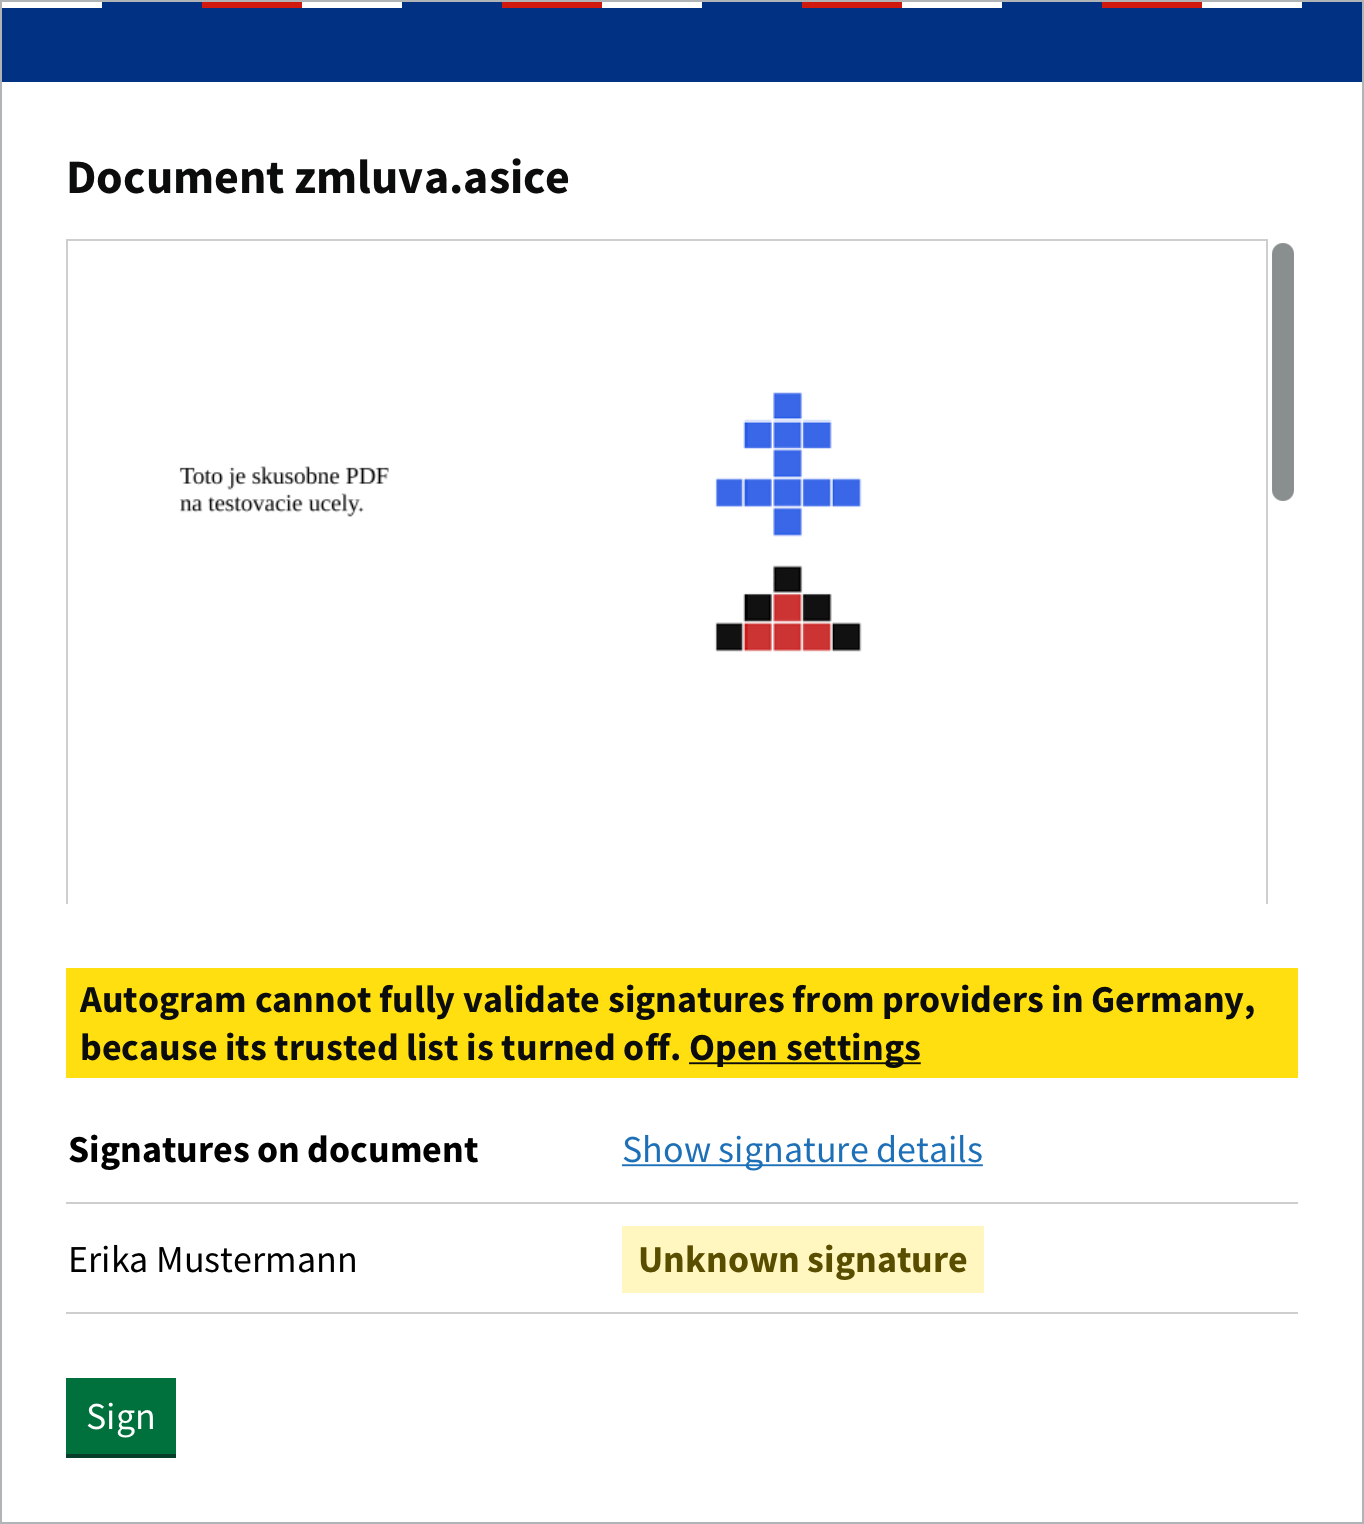
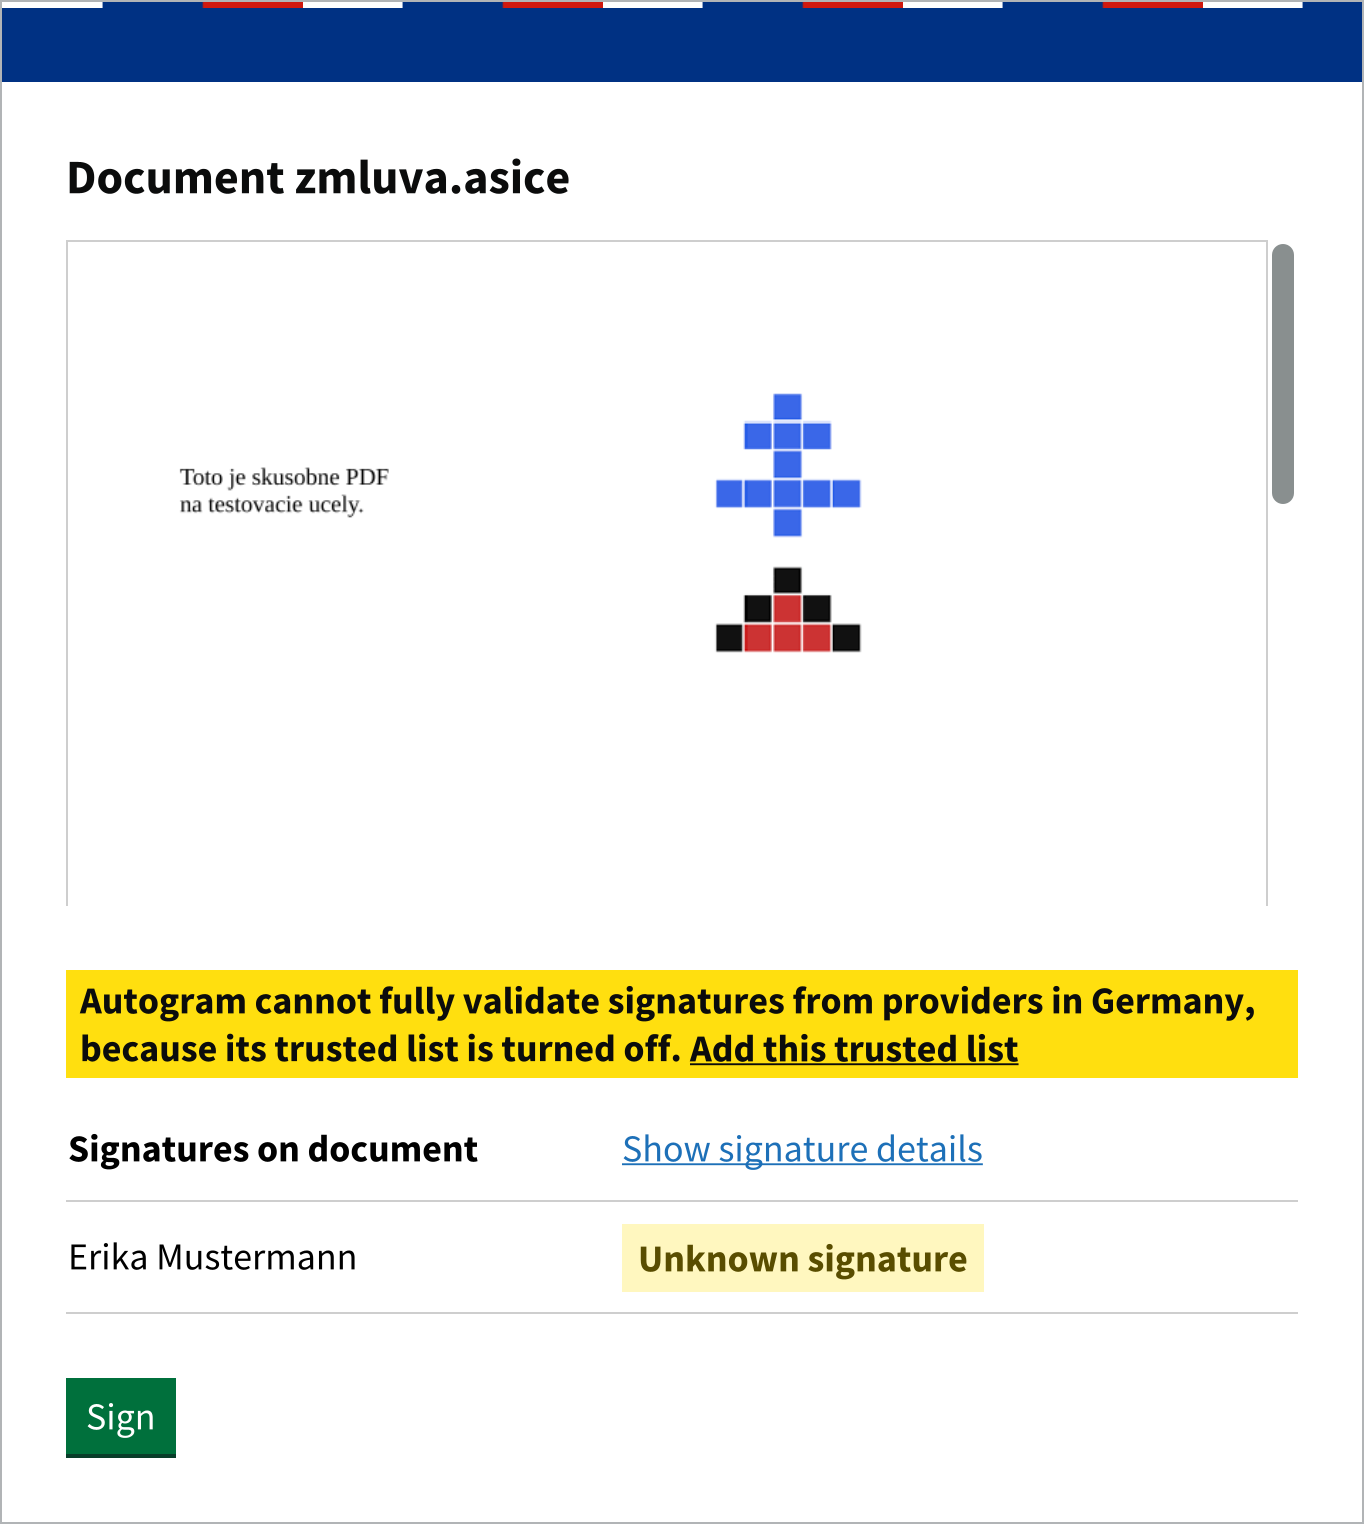
document adding the trusted lists from the warning

diff --git a/docs/docs/sk/troubleshooting.md b/docs/docs/sk/troubleshooting.md
@@ -78,7 +78,7 @@ Autogram predvolene podpisuje iba XML formuláre slovenskej verejnej správy. In
 
 ### Podpisy sa nedajú overiť
 
-Ak Autogram hlási chybu pri sťahovaní dôveryhodných zoznamov, nemá prístup na internet alebo je server s dôveryhodnými zoznamami nedostupný. Skontrolujte pripojenie a dokument otvorte znova. Ak hlási, že sa nepodarilo stiahnuť iba niektoré zoznamy, je nedostupný server niektorej krajiny alebo je pripojenie na internet veľmi pomalé. Skúste to neskôr. Ak Autogram hlási, že dôveryhodný zoznam krajiny nemáte zapnutý, kliknite na **Otvoriť nastavenia** a krajinu zapnite. Viac je na stránke [Overenie podpisov](verification.md#doveryhodne-zoznamy).
+Ak Autogram hlási chybu pri sťahovaní dôveryhodných zoznamov, nemá prístup na internet alebo je server s dôveryhodnými zoznamami nedostupný. Skontrolujte pripojenie a dokument otvorte znova. Ak hlási, že sa nepodarilo stiahnuť iba niektoré zoznamy, je nedostupný server niektorej krajiny alebo je pripojenie na internet veľmi pomalé. Skúste to neskôr. Ak Autogram hlási, že dôveryhodný zoznam krajiny nemáte zapnutý, kliknite na **Pridať tento dôveryhodný zoznam**. Viac je na stránke [Overenie podpisov](verification.md#doveryhodne-zoznamy).
 
 ## Inštalácia a aktualizácie
 

diff --git a/docs/docs/en/settings.md b/docs/docs/en/settings.md
@@ -29,7 +29,7 @@ For a timestamp to be recognised during validation, its provider must be qualifi
 
 ![Settings – Signature Validation](/assets/images/screenshots/en/settings-validation.png)
 
-The list of EU countries whose trusted lists Autogram uses to validate signatures. By default, Slovakia, Czechia, Austria, Poland, Hungary, Belgium, the Netherlands and Spain are on. If you receive documents signed with a certificate from another country, turn it on. Autogram tells you when it cannot validate a signature because of that. More countries slow down validation.
+The list of EU countries whose trusted lists Autogram uses to validate signatures. By default, Slovakia, Czechia, Austria, Poland, Hungary, Belgium, the Netherlands and Spain are on. If you receive documents signed with a certificate from another country, turn it on. When Autogram cannot validate a signature because of that, it tells you and turns the country on with one click. More countries slow down validation.
 
 Autogram also uses these lists to find out whether the certificate you sign with is qualified. If your certificate is from another country, turn that country on too, otherwise Autogram marks the certificate as non-qualified in the [certificate selection](card-and-pin.md#choosing-the-certificate).
 

diff --git a/docs/docs/sk/settings.md b/docs/docs/sk/settings.md
@@ -29,7 +29,7 @@ Aby bola časová pečiatka pri overovaní uznaná, jej poskytovateľ musí byť
 
 ![Nastavenia – Overovanie podpisov](/assets/images/screenshots/sk/settings-validation.png)
 
-Zoznam krajín EÚ, podľa ktorých dôveryhodných zoznamov Autogram overuje podpisy. Predvolene sú zapnuté Slovensko, Česko, Rakúsko, Poľsko, Maďarsko, Belgicko, Holandsko a Španielsko. Ak dostávate dokumenty podpísané certifikátom z inej krajiny, zapnite ju. Autogram vás na to upozorní pri podpise, ktorý preto nevie overiť. Viac krajín overovanie spomalí.
+Zoznam krajín EÚ, podľa ktorých dôveryhodných zoznamov Autogram overuje podpisy. Predvolene sú zapnuté Slovensko, Česko, Rakúsko, Poľsko, Maďarsko, Belgicko, Holandsko a Španielsko. Ak dostávate dokumenty podpísané certifikátom z inej krajiny, zapnite ju. Autogram vás na to upozorní pri podpise, ktorý preto nevie overiť, a krajinu zapne jedným kliknutím. Viac krajín overovanie spomalí.
 
 Podľa týchto zoznamov Autogram zisťuje aj to, či je kvalifikovaný certifikát, ktorým podpisujete. Ak máte certifikát z inej krajiny, zapnite aj ju, inak ho Autogram vo [výbere certifikátu](card-and-pin.md#vyber-certifikatu) označí ako nekvalifikovaný.
 

diff --git a/docs/docs/sk/verification.md b/docs/docs/sk/verification.md
@@ -52,7 +52,7 @@ Tlačidlom **Zobraziť technické detaily** otvoríte úplnú správu o overení
 
 Autogram overuje podpisy podľa dôveryhodných zoznamov Európskej únie, ktoré sťahuje z internetu. Predvolene overuje podpisy z certifikátov poskytovateľov zo Slovenska, Česka, Rakúska, Poľska, Maďarska, Belgicka, Holandska a Španielska. Ďalšie krajiny zapnete v [Nastaveniach](settings.md#overovanie-podpisov). Každá ďalšia krajina overovanie spomalí.
 
-Ak podpis vydal poskytovateľ z krajiny, ktorej dôveryhodný zoznam nemáte zapnutý, Autogram ho nevie úplne overiť a nad podpismi na to upozorní aj s odkazom **Otvoriť nastavenia**. Keď krajinu zapnete a nastavenia uložíte, otvorené dokumenty sa overia znova.
+Ak podpis vydal poskytovateľ z krajiny, ktorej dôveryhodný zoznam nemáte zapnutý, Autogram ho nevie úplne overiť a nad podpismi na to upozorní. Kliknite na **Pridať tento dôveryhodný zoznam** (pri viacerých krajinách **Pridať tieto dôveryhodné zoznamy**): Autogram krajinu zapne v nastaveniach a otvorené dokumenty overí znova.
 
 ![Upozornenie, že dôveryhodný zoznam krajiny nemáte zapnutý](/assets/images/screenshots/sk/signed-document-country-off.png)
 

diff --git a/docs/docs/sk/warnings.md b/docs/docs/sk/warnings.md
@@ -25,9 +25,9 @@ Ak dokument už obsahuje podpis, ktorý je neplatný alebo ho nie je možné ove
 - **Zrušiť podpisovanie:** dokument nepodpíšete,
 - **Podpísať:** dokument napriek tomu podpíšete.
 
-Ak podpis vydal poskytovateľ z krajiny, ktorej dôveryhodný zoznam nemáte zapnutý, upozornenie to uvedie aj s odkazom **Otvoriť nastavenia**. Keď krajinu zapnete a nastavenia uložíte, Autogram podpisy overí znova. Potom kliknite na **Podpísať** ešte raz.
+Ak podpis vydal poskytovateľ z krajiny, ktorej dôveryhodný zoznam nemáte zapnutý, upozornenie to uvedie. Kliknite na **Pridať tento dôveryhodný zoznam**: Autogram krajinu zapne v nastaveniach a podpisy overí znova. Potom kliknite na **Podpísať** ešte raz.
 
-![Upozornenie s odkazom do nastavení](/assets/images/screenshots/sk/warning-invalid-signatures-country-off.png)
+![Upozornenie s odkazom, ktorý pridá dôveryhodný zoznam](/assets/images/screenshots/sk/warning-invalid-signatures-country-off.png)
 
 Čo znamenajú jednotlivé výsledky overenia, je na stránke [Overenie podpisov](verification.md#vysledky). Upozornenie môžete vypnúť v [Nastaveniach](settings.md#bezpecnost) voľbou **Kontrola platnosti podpisov**.
 

diff --git a/docs/docs/en/troubleshooting.md b/docs/docs/en/troubleshooting.md
@@ -78,7 +78,7 @@ By default, Autogram signs only Slovak government XML forms. You can sign other 
 
 ### Signatures cannot be validated
 
-If Autogram reports an error while downloading trusted lists, it has no internet access or the server with the trusted lists is unavailable. Check your connection and open the document again. If it reports that only some lists could not be downloaded, the server of a country is unavailable or the internet connection is very slow. Try again later. If Autogram says that the trusted list of a country is turned off, click **Open settings** and turn the country on. See [Verifying signatures](verification.md#trusted-lists).
+If Autogram reports an error while downloading trusted lists, it has no internet access or the server with the trusted lists is unavailable. Check your connection and open the document again. If it reports that only some lists could not be downloaded, the server of a country is unavailable or the internet connection is very slow. Try again later. If Autogram says that the trusted list of a country is turned off, click **Add this trusted list**. See [Verifying signatures](verification.md#trusted-lists).
 
 ## Installation and updates
 

diff --git a/docs/docs/en/verification.md b/docs/docs/en/verification.md
@@ -51,7 +51,7 @@ Click **Show signature details**. For each signature you see:
 
 Autogram validates signatures against the European Union trusted lists, which it downloads from the internet. By default it validates signatures with certificates from providers in Slovakia, Czechia, Austria, Poland, Hungary, Belgium, the Netherlands and Spain. You can turn on more countries in [Settings](settings.md#signature-validation). Each additional country slows down validation.
 
-If a signature was issued by a provider from a country whose trusted list is turned off, Autogram cannot fully validate it and says so above the signatures, with an **Open settings** link. When you turn the country on and save the settings, open documents are validated again.
+If a signature was issued by a provider from a country whose trusted list is turned off, Autogram cannot fully validate it and says so above the signatures. Click **Add this trusted list** (**Add these trusted lists** for more countries): Autogram turns the country on in the settings and validates open documents again.
 
 ![Warning that the trusted list of a country is turned off](/assets/images/screenshots/en/signed-document-country-off.png)
 

diff --git a/docs/docs/en/warnings.md b/docs/docs/en/warnings.md
@@ -25,9 +25,9 @@ Authorities may not accept such a document. **Show signature details** shows the
 - **Cancel signing:** you do not sign the document,
 - **Sign:** you sign the document anyway.
 
-If a signature was issued by a provider from a country whose trusted list is turned off, the warning says so, with an **Open settings** link. When you turn the country on and save the settings, Autogram validates the signatures again. Then click **Sign** once more.
+If a signature was issued by a provider from a country whose trusted list is turned off, the warning says so. Click **Add this trusted list**: Autogram turns the country on in the settings and validates the signatures again. Then click **Sign** once more.
 
-![Warning with a link to the settings](/assets/images/screenshots/en/warning-invalid-signatures-country-off.png)
+![Warning with a link that adds the trusted list](/assets/images/screenshots/en/warning-invalid-signatures-country-off.png)
 
 What the validation results mean is explained in [Verifying signatures](verification.md#results). You can turn this warning off in [Settings](settings.md#security) with **Signature validity check**.
 
